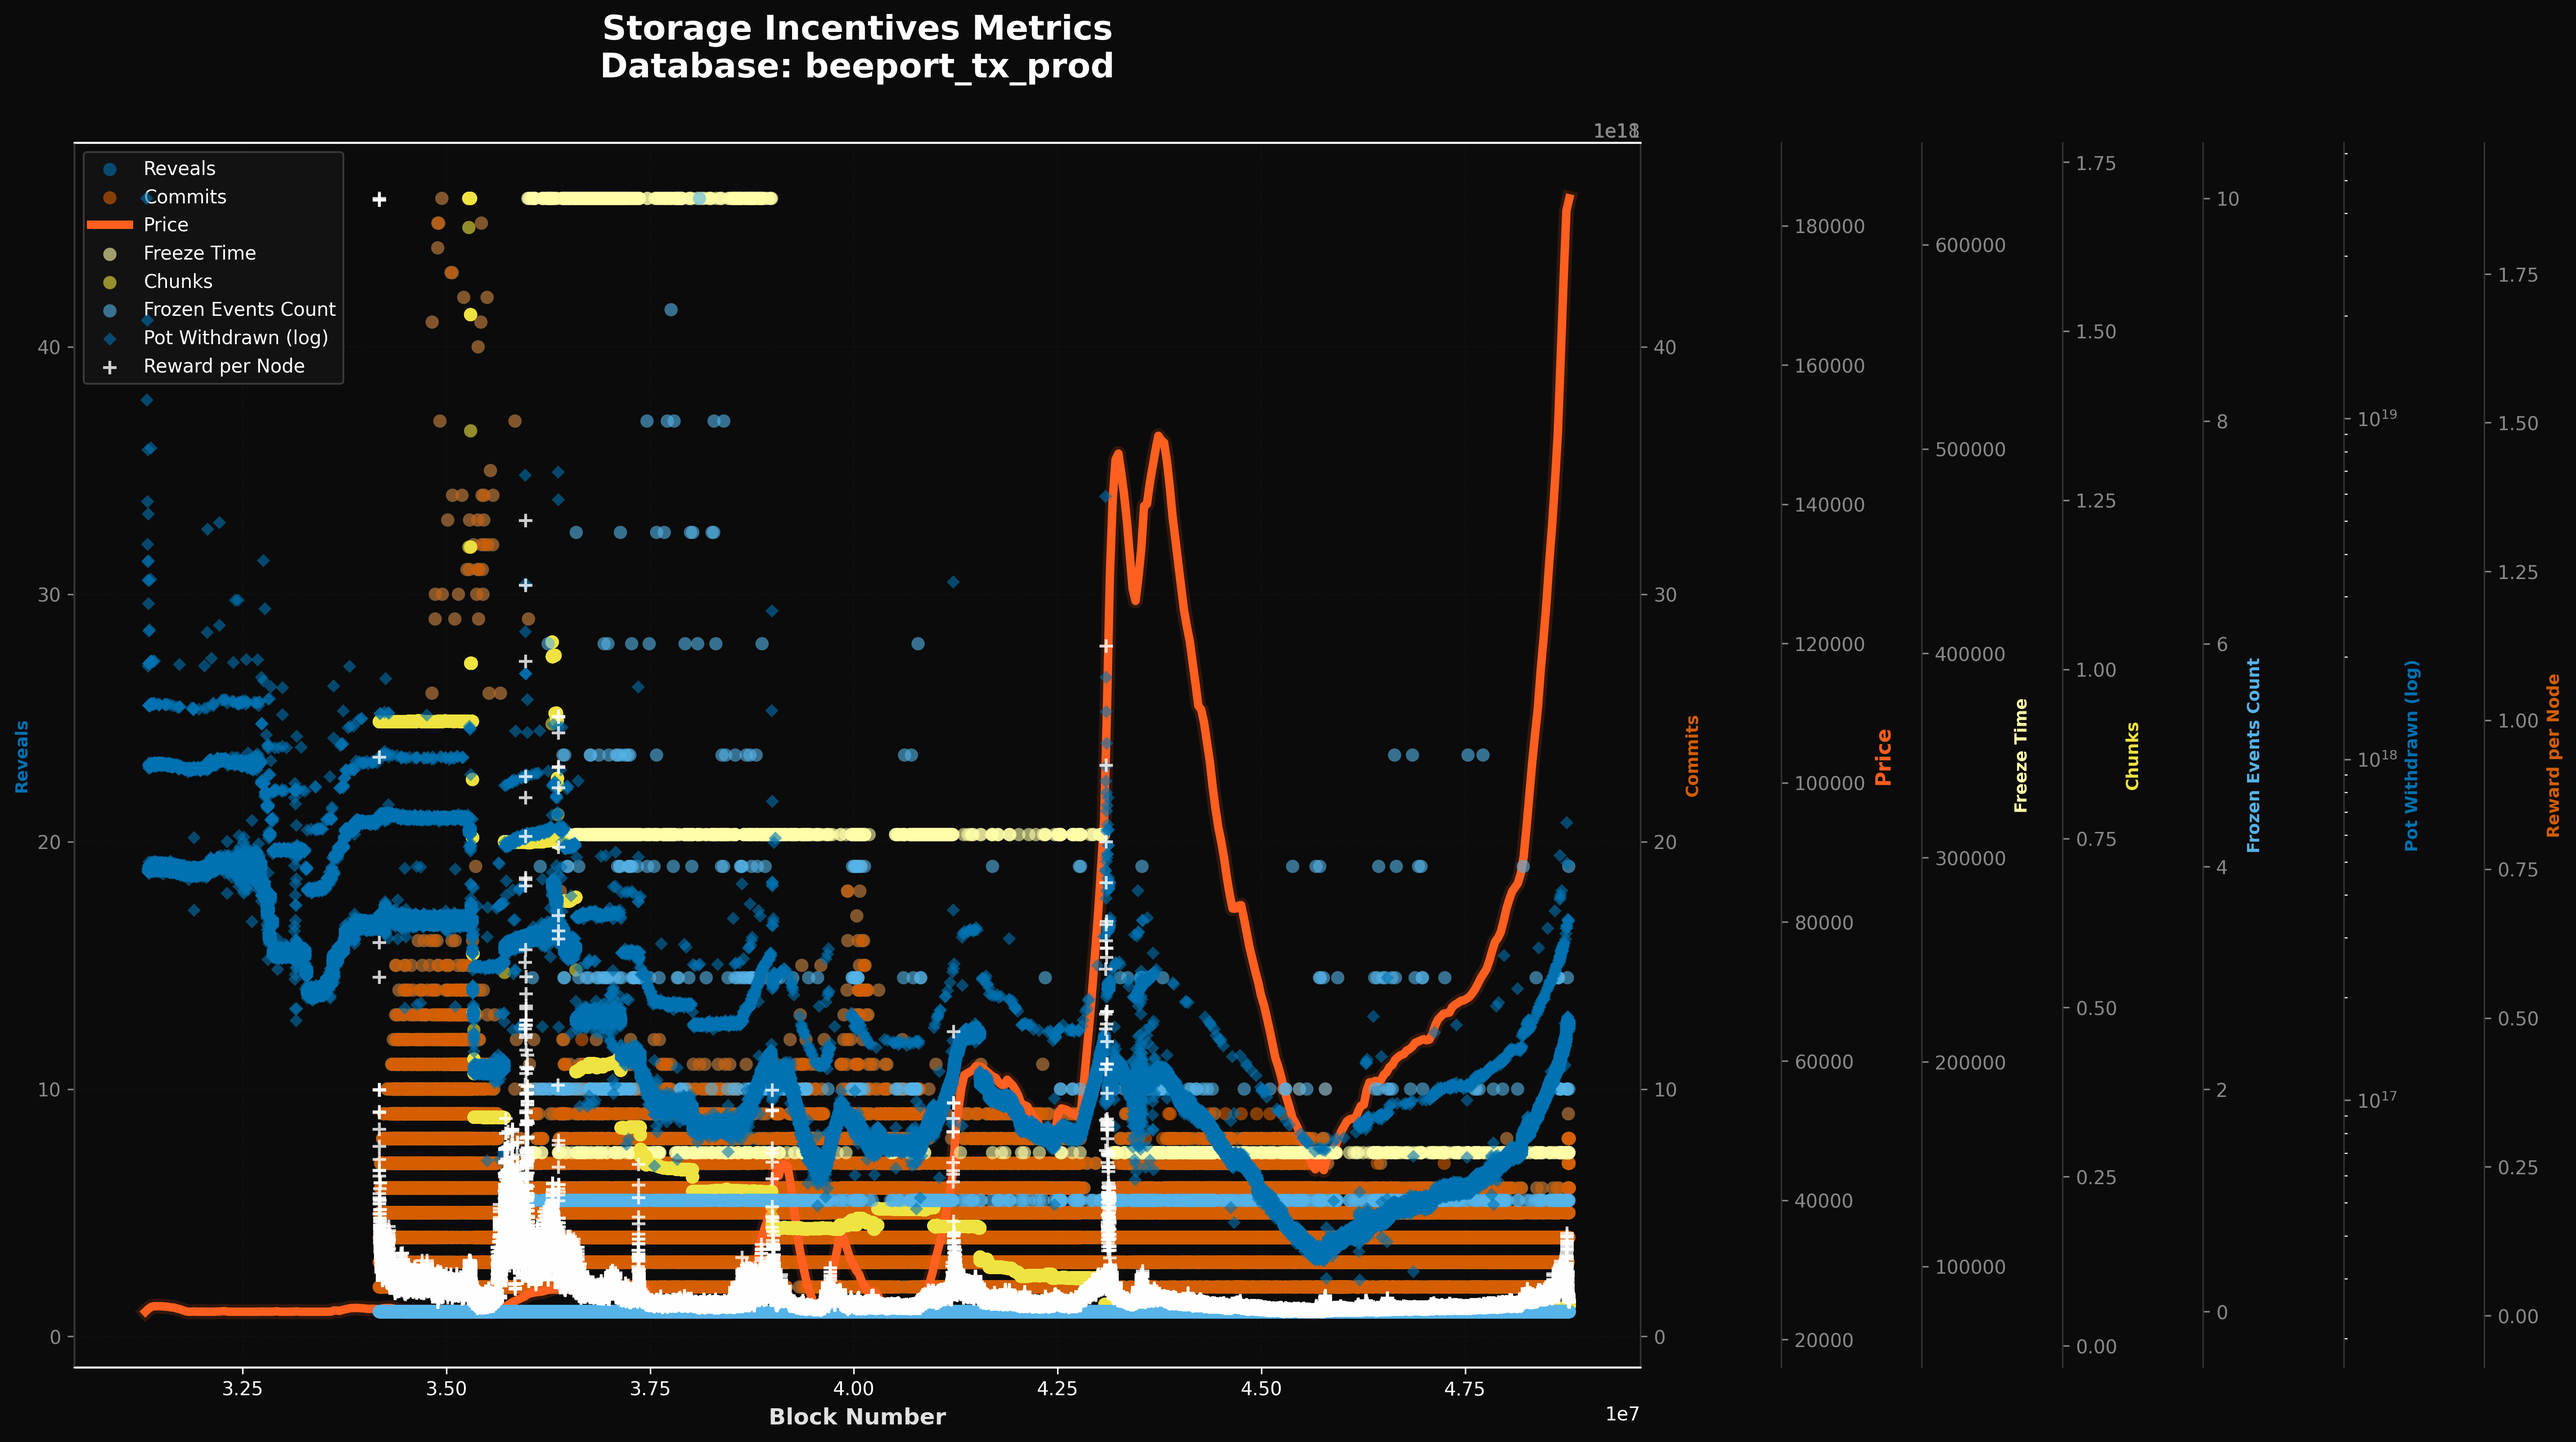
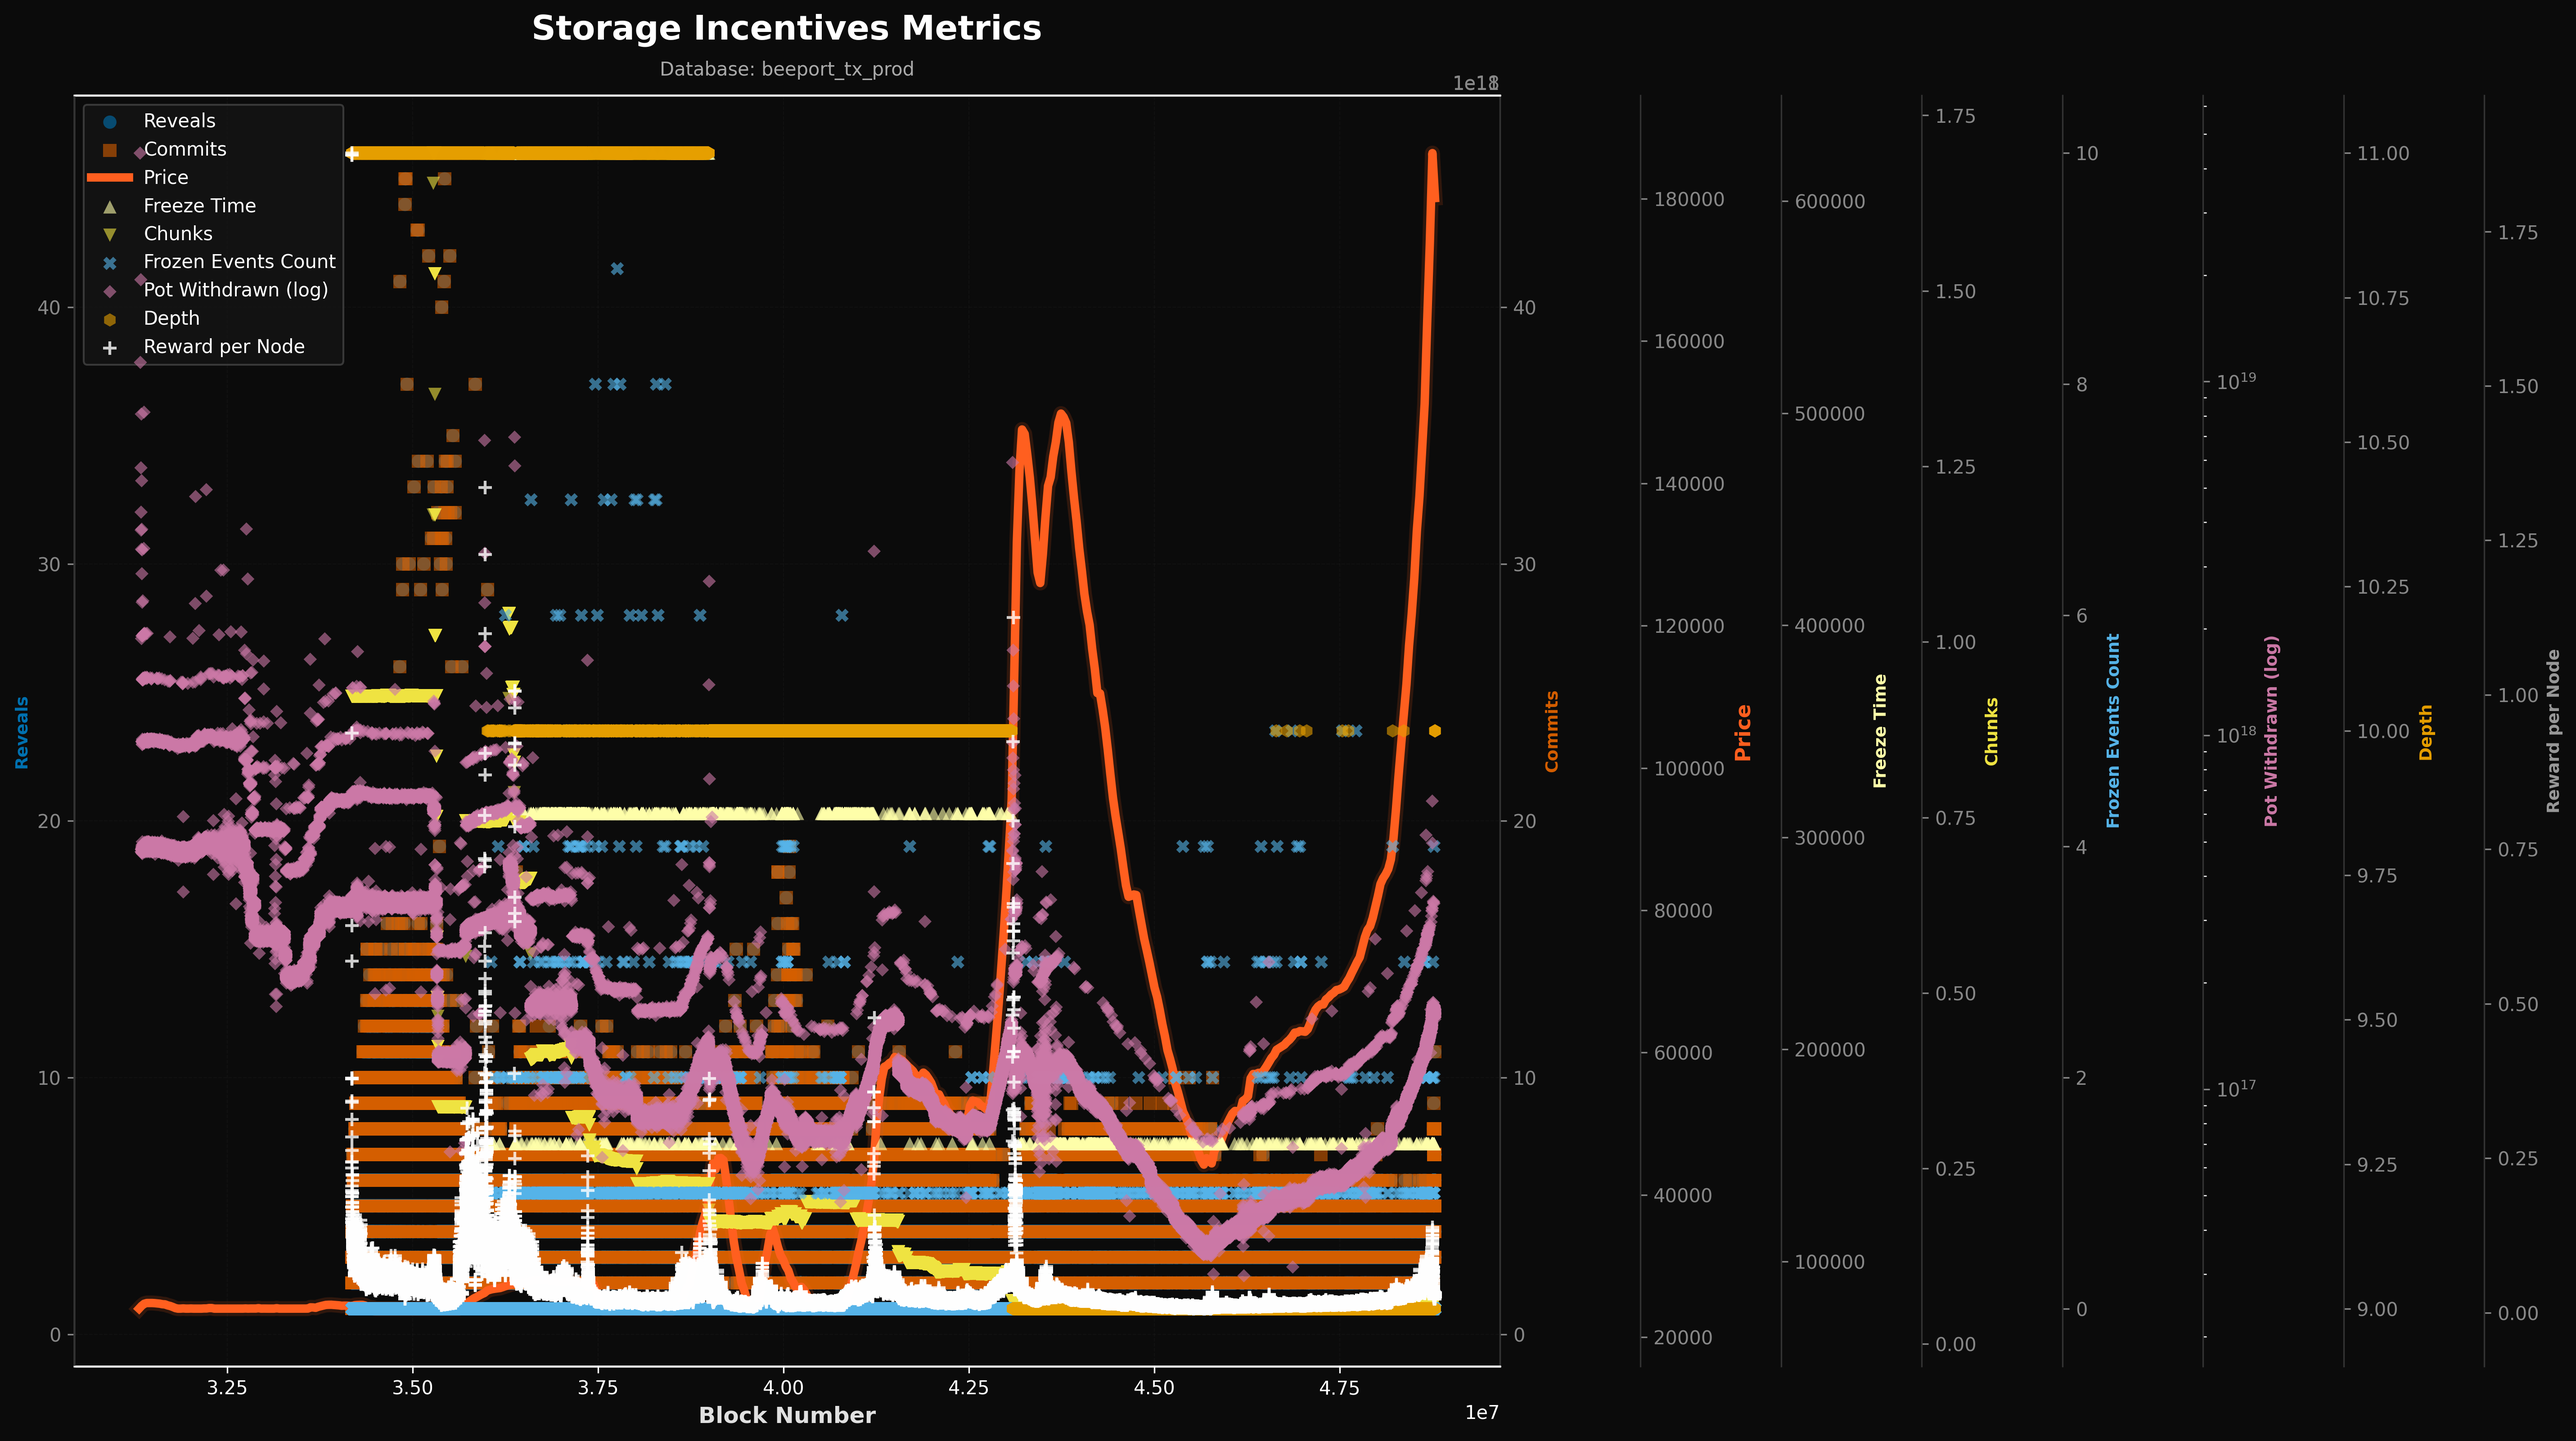
feat: depth series, per-series markers, windowed graph recipes
Dashboard gains a Depth series (TruthSelected.truth_depth per round) in
both the PNG and HTML renderers. Every series now has its own marker
shape, defined once in plot.py (MARKERS) and shared with plot_html.py,
and the palette is extended to nine colours so no two series share one.
The subtitle (database and time window) is small and grey under the
title.

SINCE_DAYS restricts both renderers to the last N days, with the cutoff
block looked up from event timestamps. justfile: graph-all (alias
graph), graph-3-month, graph-1-month, graph-1-week, graph-1-day write
suffixed PNGs (windowed ones gitignored); every graph recipe takes a
`days` variable. Full-history PNG re-rendered.

diff --git a/plots/plot.py b/plots/plot.py
@@ -12,6 +12,31 @@ plt.style.use('dark_background')
 
 load_dotenv()
 
+TITLE = "Storage Incentives Metrics"
+
+# One marker shape per series so they can be told apart without relying on colour.
+# matplotlib code → plotly symbol
+MARKERS = {
+    "Reveals":             ("o", "circle"),
+    "Commits":             ("s", "square"),
+    "Freeze Time":         ("^", "triangle-up"),
+    "Chunks":              ("v", "triangle-down"),
+    "Frozen Events Count": ("X", "x"),
+    "Pot Withdrawn (log)": ("D", "diamond"),
+    "Reward per Node":     ("+", "cross-thin"),
+    "Depth":               ("h", "hexagon"),
+}
+
+# Colour-blind-safe palette, indexed by series order; Price and Reward per Node override it.
+CB_COLORS = ['#0072B2', '#D55E00', '#009E73', '#FFFFAA', '#F0E442', '#56B4E9', '#CC79A7', '#E69F00', '#999999']
+NEON_ORANGE = '#FF5F1F'
+
+
+def marker_for(label, backend="mpl"):
+    mpl, plotly = MARKERS.get(label, ("o", "circle"))
+    return mpl if backend == "mpl" else plotly
+
+
 def db_settings():
     """Connection settings from the environment (optionally via .env)."""
     return dict(
@@ -78,19 +103,43 @@ def series_queries():
                 AND pw.pot_total_amount IS NOT NULL
             ORDER BY pw.block_number
         """),
+        ("Depth", "SELECT block_number, truth_depth FROM storage_incentives_events WHERE event_type = 'TruthSelected' AND truth_depth IS NOT NULL"),
     ]
 
 
-def load_dataframes(settings=None):
+def since_days():
+    """Window in days from SINCE_DAYS (unset or empty = full history)."""
+    v = os.getenv("SINCE_DAYS", "").strip()
+    return int(v) if v else None
+
+
+def title_suffix(days):
+    if not days:
+        return ""
+    return " · last 24 hours" if days == 1 else f" · last {days} days"
+
+
+def load_dataframes(settings=None, days=None):
     """Run every series query and return {label: DataFrame indexed by block_number}.
 
     The derived 'Reward per Node' series (10-round rolling pot / commits) replaces the raw
-    query result. Returns an empty dict if the database has no data.
+    query result. With `days`, only blocks from the last that many days are kept (the cutoff
+    block is looked up from block timestamps). Returns an empty dict if there is no data.
     """
     settings = settings or db_settings()
     conn = psycopg2.connect(**settings)
     dataframes = {}
+    cutoff = None
     try:
+        if days:
+            cur = conn.cursor()
+            cur.execute(
+                "SELECT min(block_number) FROM storage_incentives_events "
+                "WHERE block_timestamp >= extract(epoch FROM now() - make_interval(days => %s))",
+                (days,),
+            )
+            cutoff = cur.fetchone()[0]
+            cur.close()
         for label, sql in series_queries():
             df = pd.read_sql(sql, conn)
             if not df.empty:
@@ -109,14 +158,19 @@ def load_dataframes(settings=None):
         raw_df['reward_per_node'] = raw_df['pot_sum'] / raw_df['commit_sum'].replace(0, np.nan)
         dataframes['Reward per Node'] = raw_df.set_index('block_number')[['reward_per_node']].dropna()
 
+    if cutoff is not None:
+        dataframes = {k: v[v.index >= cutoff] for k, v in dataframes.items()}
+        dataframes = {k: v for k, v in dataframes.items() if not v.empty}
+
     return dataframes
 
 
 def fetch_and_plot_metrics(export_filename=None):
     dbname = db_settings()["dbname"]
+    days = since_days()
 
     try:
-        dataframes = load_dataframes()
+        dataframes = load_dataframes(days=days)
         if not dataframes:
             print("No data found.")
             return
@@ -125,8 +179,8 @@ def fetch_and_plot_metrics(export_filename=None):
         min_block, max_block = int(all_indices.min()), int(all_indices.max())
         full_timeline = pd.DataFrame(index=range(min_block, max_block + 1))
 
-        cb_colors = ['#0072B2', '#D55E00', '#009E73', '#FFFFAA', '#F0E442', '#56B4E9']
-        neon_orange = '#FF5F1F'
+        cb_colors = CB_COLORS
+        neon_orange = NEON_ORANGE
         
         fig, ax_main = plt.subplots(figsize=(19.2, 10.8), dpi=100, facecolor='#0B0B0B')
         ax_main.set_facecolor('#0B0B0B')
@@ -178,7 +232,8 @@ def fetch_and_plot_metrics(export_filename=None):
                     # White cross marker
                     item = ax.scatter(x, y, color='white', label=label, s=50, marker='+', edgecolors='none', alpha=0.8, zorder=3)
                 else:
-                    item = ax.scatter(x, y, color=color, label=label, s=50, edgecolors='none', alpha=0.6, zorder=3)
+                    item = ax.scatter(x, y, color=color, label=label, s=50, marker=marker_for(label),
+                                      edgecolors='none', alpha=0.6, zorder=3)
                 lines_and_scatters.append(item)
                 ax.set_ylabel(label, color=color, fontweight='bold', fontsize=9)
                 ax.tick_params(axis='y', labelcolor=color)
@@ -188,8 +243,11 @@ def fetch_and_plot_metrics(export_filename=None):
             ax.spines['right'].set_color('#333333')
 
         ax_main.set_xlabel('Block Number', fontsize=12, fontweight='bold', color='#E0E0E0')
-        plt.title(f'Storage Incentives Metrics\nDatabase: {dbname}', 
-                  fontsize=18, pad=35, color='white', fontweight='bold')
+        # Title large, subtitle small (set_title can only do one size, so the subtitle is a text line below it)
+        ax_main.set_title(TITLE, fontsize=18, pad=30, color='white', fontweight='bold')
+        ax_main.text(0.5, 1.012, f'Database: {dbname}{title_suffix(days)}',
+                     transform=ax_main.transAxes, ha='center', va='bottom',
+                     fontsize=10, color='#AAAAAA')
         
         # Legend styling
         labels = [obj.get_label() for obj in lines_and_scatters]

diff --git a/plots/plot_html.py b/plots/plot_html.py
@@ -6,19 +6,17 @@ the PNG. Output is a single self-contained HTML file (plotly.js inlined, ~4 MB).
 
     python3 plot_html.py                       # writes incentives_hero_dashboard.html here
     python3 plot_html.py path/to/out.html
+    SINCE_DAYS=90 python3 plot_html.py         # last 90 days only
 """
 import sys
 
 import plotly.graph_objects as go
 
-from plot import db_settings, load_dataframes
-
-# Same palette as plot.py
-CB_COLORS = ['#0072B2', '#D55E00', '#009E73', '#FFFFAA', '#F0E442', '#56B4E9']
-NEON_ORANGE = '#FF5F1F'
+from plot import (CB_COLORS, NEON_ORANGE, TITLE, db_settings, load_dataframes, marker_for,
+                  since_days, title_suffix)
 
 
-def build_figure(dataframes, dbname):
+def build_figure(dataframes, dbname, days=None):
     fig = go.Figure()
     layout_axes = {}
     labels = list(dataframes.keys())
@@ -54,7 +52,7 @@ def build_figure(dataframes, dbname):
         else:
             fig.add_trace(go.Scatter(
                 x=x, y=y, name=label, yaxis=axis_id, mode="markers",
-                marker=dict(size=6, color=color, opacity=0.6),
+                marker=dict(symbol=marker_for(label, "plotly"), size=7, color=color, opacity=0.6),
                 hovertemplate="block %{x}<br>%{y}<extra>" + label + "</extra>",
             ))
 
@@ -73,7 +71,7 @@ def build_figure(dataframes, dbname):
         layout_axes[axis_key] = axis
 
     fig.update_layout(
-        title=dict(text=f"Storage Incentives Metrics<br><sup>Database: {dbname}</sup>",
+        title=dict(text=f"{TITLE}<br><span style='font-size:12px;color:#AAAAAA'>Database: {dbname}{title_suffix(days)}</span>",
                    font=dict(color="white", size=20), x=0.5),
         template="plotly_dark",
         paper_bgcolor="#0B0B0B",
@@ -90,11 +88,12 @@ def build_figure(dataframes, dbname):
 
 def main(out="incentives_hero_dashboard.html"):
     settings = db_settings()
-    dataframes = load_dataframes(settings)
+    days = since_days()
+    dataframes = load_dataframes(settings, days=days)
     if not dataframes:
         print("No data found.")
         return 1
-    fig = build_figure(dataframes, settings["dbname"])
+    fig = build_figure(dataframes, settings["dbname"], days)
     fig.write_html(out, include_plotlyjs=True, full_html=True)
     print(f"Wrote {out}")
     return 0
